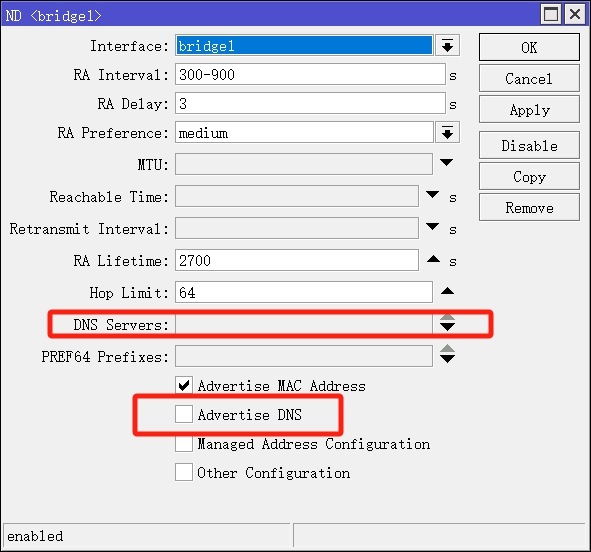
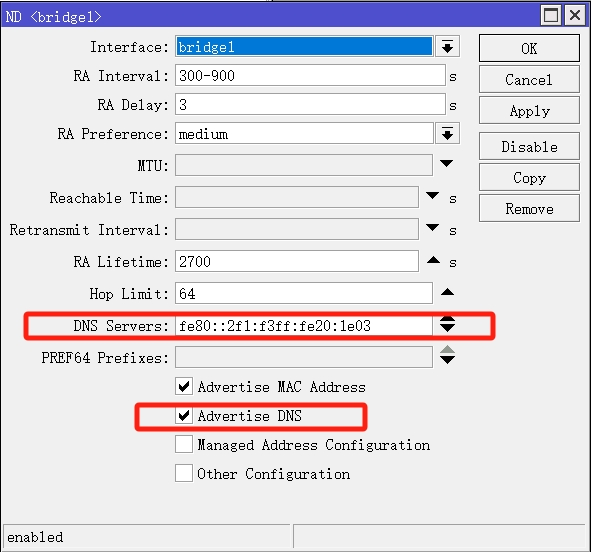
Site updated: 2025-05-11 12:13:39

diff --git a/2025/05/09/【RouterOS(ROS)】IPv4 IPv6 自动分流设置/index.html b/2025/05/09/【RouterOS(ROS)】IPv4 IPv6 自动分流设置/index.html
@@ -37,11 +37,12 @@
 <meta property="og:image" content="https://tty228.github.io/images/2025/1_9.png">
 <meta property="og:image" content="https://tty228.github.io/images/2025/1_10.png">
 <meta property="og:image" content="https://tty228.github.io/images/2025/1_11.png">
+<meta property="og:image" content="https://tty228.github.io/images/2025/1_15.png">
 <meta property="og:image" content="https://tty228.github.io/images/2025/1_12.png">
 <meta property="og:image" content="https://tty228.github.io/images/2025/1_13.png">
 <meta property="og:image" content="https://tty228.github.io/images/2025/1_14.png">
 <meta property="article:published_time" content="2025-05-09T13:54:26.112Z">
-<meta property="article:modified_time" content="2025-05-11T03:49:20.514Z">
+<meta property="article:modified_time" content="2025-05-11T04:13:08.183Z">
 <meta property="article:author" content="tty228">
 <meta property="article:tag" content="RouterOS">
 <meta property="article:tag" content="ROS">
@@ -270,7 +271,7 @@
         <i class="far fa-calendar-check"></i>
       </span>
       <span class="post-meta-item-text">更新于</span>
-      <time title="修改时间：2025-05-11 11:49:20" itemprop="dateModified" datetime="2025-05-11T11:49:20+08:00">2025-05-11</time>
+      <time title="修改时间：2025-05-11 12:13:08" itemprop="dateModified" datetime="2025-05-11T12:13:08+08:00">2025-05-11</time>
     </span>
     <span class="post-meta-item">
       <span class="post-meta-item-icon">
@@ -430,10 +431,10 @@
 <li>如果需要将 DNS 修改为旁路网关，需检查 NAT 规则，确保未开启 DNS 劫持，如果使用 ND 指定分配 DNS 则不需要关闭劫持规则</li>
 <li>在能过获得前缀的情况下，IPv6 通常不需要开启 IP 伪装，如果错误的开启 IP 伪装，会导致外部服务器只能获取到网关 IPv6 地址，而非真实的设备 IPv6 地址<br><img src="/images/2025/1_10.png" alt="IPv6 防火墙规则"></li>
 </ol>
-<h4 id="兼容安卓残疾-IPv6"><a href="#兼容安卓残疾-IPv6" class="headerlink" title="兼容安卓残疾 IPv6"></a>兼容安卓残疾 IPv6</h4><h5 id="IPv6-ND-设置"><a href="#IPv6-ND-设置" class="headerlink" title="IPv6 ND 设置"></a>IPv6 ND 设置</h5><p>总所周知，安卓的 IPv6 网络功能愚蠢又弱智，既不支持 DHCPv6，也不能指定 DNS 地址，也不支持网关宣告的 fe80 本地链路 DNS 地址，只能使用动态的 GUA（或者需要在本地链路注明接口名称？），这给分流带来了很多不方便，所以如果你使用的是安卓设备，又不想通过防火墙拒绝 ICMPv6 (ND) 包来禁用安卓设备的 IPv6 功能的话，可以把 ND DNS 设置清空<br><img src="/images/2025/1_11.png" alt="IPv6 ND 设置"></p>
+<h4 id="兼容安卓残疾-IPv6"><a href="#兼容安卓残疾-IPv6" class="headerlink" title="兼容安卓残疾 IPv6"></a>兼容安卓残疾 IPv6</h4><h5 id="IPv6-ND-设置"><a href="#IPv6-ND-设置" class="headerlink" title="IPv6 ND 设置"></a>IPv6 ND 设置</h5><p>总所周知，安卓的 IPv6 网络功能愚蠢又弱智，既不支持 DHCPv6，也不能指定 DNS 地址，也不支持网关宣告的 fe80 本地链路 DNS 地址，只能使用 GUA 或 ULA，这给分流带来了很多不方便，所以如果你使用的是安卓设备，又不想通过防火墙拒绝 ICMPv6 (ND) 包来禁用安卓设备的 IPv6 功能的话，可以把 ND DNS 设置清空<br><img src="/images/2025/1_11.png" alt="IPv6 ND 设置"></p>
 <ul>
-<li>删除 DNS 地址信息</li>
-<li>在 ND 信息中不包含 DNS 地址<br>这样可以使安卓设备仅使用 IPv4 DNS 地址<br><strong>但这可能会因为缺少 IPV6 DNS，造成部分设备需要手动指定 DNS 才能上网，如某些单网口的 OpenWrt，谨慎使用</strong><br><strong>如果默认设置或者分发 fe80:: DNS 可以正常上网时，不建议修改</strong></li>
+<li>删除 DNS 地址信息或使用桥接接口的 fe80:: 本地链路地址</li>
+<li>如果清空了 DNS 信息，取消勾选，如果使用 fe80:: 本地链路地址，保持勾选<br>这样可以使安卓设备仅使用 IPv4 DNS 地址<br><strong>当 ND 信息中不包含 DNS 时，可能会造成部分设备需要手动指定 DNS 才能上网，如某些单网口的 OpenWrt，谨慎使用</strong><br>分发 fe80:: DNS 一般也可以实现安卓设备仅使用 IPv4 DNS，因为安卓并不支持 LLA DNS<br>如果你非要给安卓设备指定旁路网关的 IPv6 地址，请使用 ULA 地址，但网关离线时很难自动切换，这应该和我们使用旁路网关的初衷不一致<br><img src="/images/2025/1_15.png" alt="IPv6 ND 设置"></li>
 </ul>
 <h5 id="其他设置"><a href="#其他设置" class="headerlink" title="其他设置"></a>其他设置</h5><p>其实经过上面的设置之后，基本上已经可以正常上网了，但如果 IPv6 防火墙开启了丢弃无效的转发包，部分安卓设备会因为路由标记非对称路由(?)，造成 TCP 握手未完成且包被丢弃，造成 IPv6 无法上网<br>有以下几种解决方案：</p>
 <ol>

diff --git a/index.html b/index.html
@@ -343,7 +343,7 @@
         <i class="far fa-calendar-check"></i>
       </span>
       <span class="post-meta-item-text">更新于</span>
-      <time title="修改时间：2025-05-11 11:49:20" itemprop="dateModified" datetime="2025-05-11T11:49:20+08:00">2025-05-11</time>
+      <time title="修改时间：2025-05-11 12:13:08" itemprop="dateModified" datetime="2025-05-11T12:13:08+08:00">2025-05-11</time>
     </span>
     <span class="post-meta-item">
       <span class="post-meta-item-icon">
